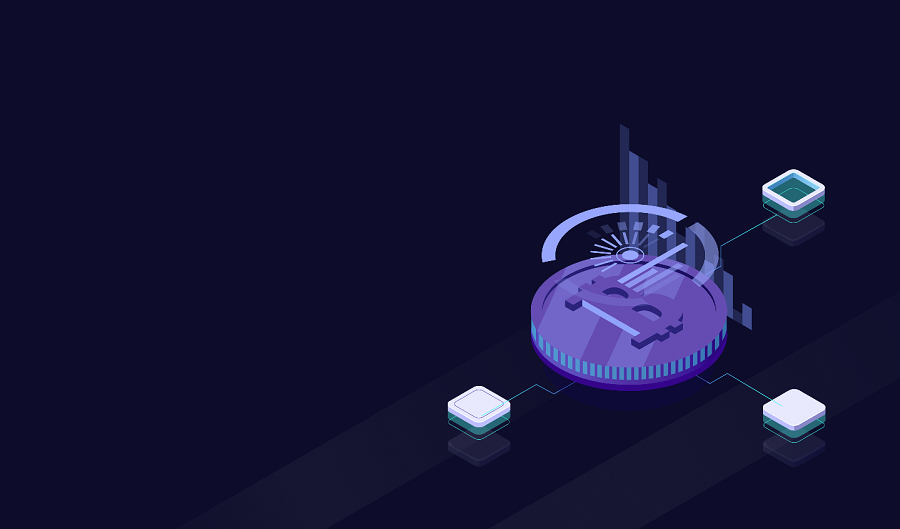
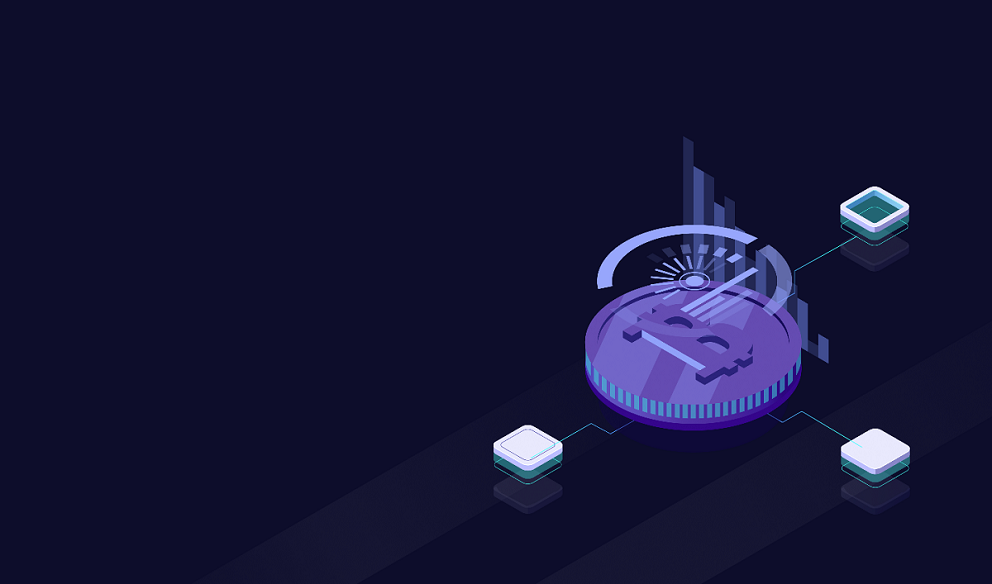
working with grid

diff --git a/scss/_responsive.scss b/scss/_responsive.scss
@@ -48,98 +48,115 @@
 
 
 
-// @media (min-width: 900px) {
+@media (max-width: 992px) {
     
-//     body {
-//         width: 900px;
-//         header {
-//             background-image: url(../img/bgc-header3.png);
-//             width: 900px;
-
-//             display: grid;
-//             .nav {
-//                 grid-template-columns: repeat(4, 1fr);
-                
-//                 // .products {
-//                     //     grid-column: 7 / 8;
-                    
-//                 // }
-                
-//                 // .features {
-//                     //     grid-column: 8 / 9;
-//                 // }
-                
-//                 // .about {            
-//                     //     grid-column: 9 / 10;
-//                 // }
-                
-//                 // .contact {
-//                 //     grid-column: 10 / 11;
-//                 // }
-                
-//                 // .login {
-//                     //     grid-column: 11 / 12;
-//                     // }
-                    
-//                     // .register {
-//                         //     grid-column: 12 / 13;
-//                 //     // grid-row: 1 / 2;
-//                 // }
-//             }
-            
-//         }
-
-//     }
-            
-// }
-
-// @media (min-width: 1200px) {
-//     .nav-container {
-//         display: grid;
-//         grid-template-columns: 1fr 1fr 1fr 1fr 1fr 1fr 1fr 1fr;
-//         grid-template-rows: 1fr;
-        
-//         .crappo {
-//             grid-column: 1 / 2;
-//         }
-
-//         .products {
-    //             grid-column: 3 / 4;
-    //         }
-    
-    //         .features {
-        //             grid-column: 4 / 5;
-        //         }
-
-//         .about {            
-//             grid-column: 5 / 6;
-//         }
-
-//         .contact {
-    //             grid-column: 6 / 7;
-    //         }
-    
-    //         .login {
-        //             grid-column: 7 / 8;
-//         }
-
-//         .register {
-    //             grid-column: 8 / 9;
-    //             grid-row: 1 / 2;
-    //         }
-    //     }
-    // }
-    
-    @media (max-width: 1200px) {
-
+    body {
+        width: 992px;
         header {
             display: grid;
-            grid-template-columns: repeat(20%, 1fr);
-            background-image: url(../img/bgc-header2.png);
+            background-image: url(../img/bgc-header3.png);
+            // width: 992px;
+            background-size: contain;
+            .nav {
+                grid-template-columns: repeat(1, 1fr);
+
+                // .crappo {
+                //     display: none;
+                // }
+                
+                .products {
+                    grid-column: 2 / 3;
+                }
+                
+                .features {
+                    grid-column: 3 / 4;
+                }
+                
+                .about {            
+                    grid-column: 3 / 4;
+                }
+                
+                .contact {
+                    grid-column: 3 / 4;
+                }
+                
+                .login {
+                    grid-column: 4 / 5;
+                }
+                    
+                .register {
+                    grid-column: 5 / 6;
+                }
+            }
+            
+        }
+
+    }
+            
+}
+
+    
+    @media (max-width: 1150px) {
+
+        body {
+            width: 1150px;
+
+            header {
+                // grid-template-columns: repeat(20%, 1fr);
+                background-image: url(../img/bgc-header2.png);
+                
+                .nav {
+                    // grid-template-columns: repeat(auto-fill, minmax(80px, 1fr));
+    
+                    .products {
+                        grid-column: 5 / 6;
+                    }
+                    
+                    .features {
+                        grid-column: 6 / 7;
+                    }
+                
+                    .about {            
+                        grid-column: 7 / 8;
+                    }
+                    
+                    .contact {
+                        grid-column: 8 / 9;
+                    }
+                    
+                    .login {
+                        grid-column: 9 / 10;
+                        
+                        p {
+                            padding-right: 20px;
+                        }
+                    }
+        
+                    .register {
+                        grid-column: 10 / 11;
+                        padding-left: 50px;
+                    }
+                }
+    
+                .header__content {
+                    .header__content--secondary {
+                        font-size: 44px;
+                    }
+                }
+                
+            }
+        }
+    }
+
+    @media (max-width: 1350px) {
+
+        header {
+            // grid-template-columns: repeat(20%, 1fr);
+            background-image: url(../img/bgc-header4.png);
             
             .nav {
                 grid-template-columns: repeat(auto-fill, minmax(80px, 1fr));
-                
+
                 .products {
                     grid-column: 7 / 8;
                 
@@ -179,3 +196,53 @@
             
         }
     }
+
+    // @media (max-width: 1440px) {
+
+    //     header {
+    //         display: grid;
+    //         grid-template-columns: repeat(20%, 1fr);
+    //         background-image: url(../img/bgc-header.png);
+            
+    //         .nav {
+    //             grid-template-columns: repeat(auto-fill, minmax(80px, 1fr));
+
+    //             .products {
+    //                 grid-column: 7 / 8;
+                
+    //             }
+                
+    //             .features {
+    //                 grid-column: 8 / 9;
+    //             }
+            
+    //             .about {            
+    //                 grid-column: 9 / 10;
+    //             }
+                
+    //             .contact {
+    //                 grid-column: 10 / 11;
+    //             }
+                
+    //             .login {
+    //                 grid-column: 11 / 12;
+                    
+    //                 p {
+    //                     padding-right: 20px;
+    //                 }
+    //             }
+    
+    //             .register {
+    //                 grid-column: 12 / 13;
+    //                 padding-left: 50px;
+    //             }
+    //         }
+
+    //         // .header__content {
+    //         //     .header__content--secondary {
+    //         //         font-size: 44px;
+    //         //     }
+    //         // }
+            
+    //     }
+    // }

diff --git a/css/index.css b/css/index.css
@@ -35,7 +35,7 @@ header {
   display: grid;
   grid-template-columns: repeat(auto-fill, minmax(50%, 1fr));
   background-image: url(../img/bgc-header.png);
-  background-size: auto;
+  background-size: cover;
   margin-left: auto;
   margin-right: auto;
   color: #fff;
@@ -50,11 +50,6 @@ header .nav {
   margin-right: 5%;
 }
 header .nav .crappo {
-  -webkit-box-pack: start;
-      -ms-flex-pack: start;
-          justify-content: flex-start;
-  -ms-flex-line-pack: start;
-      align-content: start;
   grid-column: 1/2;
   text-transform: uppercase;
   font-weight: 600;
@@ -269,11 +264,73 @@ header .header__content .header__content--button .btn__container .btn__container
           align-items: center;
 }
 
-@media (max-width: 1200px) {
-  header {
+@media (max-width: 992px) {
+  body {
+    width: 992px;
+  }
+  body header {
     display: grid;
-    grid-template-columns: repeat(20%, 1fr);
+    background-image: url(../img/bgc-header3.png);
+    background-size: contain;
+  }
+  body header .nav {
+    grid-template-columns: repeat(1, 1fr);
+  }
+  body header .nav .products {
+    grid-column: 2/3;
+  }
+  body header .nav .features {
+    grid-column: 3/4;
+  }
+  body header .nav .about {
+    grid-column: 3/4;
+  }
+  body header .nav .contact {
+    grid-column: 3/4;
+  }
+  body header .nav .login {
+    grid-column: 4/5;
+  }
+  body header .nav .register {
+    grid-column: 5/6;
+  }
+}
+@media (max-width: 1150px) {
+  body {
+    width: 1150px;
+  }
+  body header {
     background-image: url(../img/bgc-header2.png);
+  }
+  body header .nav .products {
+    grid-column: 5/6;
+  }
+  body header .nav .features {
+    grid-column: 6/7;
+  }
+  body header .nav .about {
+    grid-column: 7/8;
+  }
+  body header .nav .contact {
+    grid-column: 8/9;
+  }
+  body header .nav .login {
+    grid-column: 9/10;
+  }
+  body header .nav .login p {
+    padding-right: 20px;
+  }
+  body header .nav .register {
+    grid-column: 10/11;
+    padding-left: 50px;
+  }
+  body header .header__content .header__content--secondary {
+    font-size: 44px;
+  }
+}
+@media (max-width: 1350px) {
+  header {
+    background-image: url(../img/bgc-header4.png);
   }
   header .nav {
     grid-template-columns: repeat(auto-fill, minmax(80px, 1fr));

diff --git a/scss/_header.scss b/scss/_header.scss
@@ -3,7 +3,7 @@ header {
     grid-template-columns: repeat(auto-fill, minmax(50%, 1fr));
     // min-height: 100%;
     background-image: url(../img/bgc-header.png);
-    background-size: auto;
+    background-size: cover;
     margin-left: auto;
     margin-right: auto;
     color: #fff;
@@ -18,8 +18,8 @@ header {
         margin-right: 5%;
 
         .crappo {
-            justify-content: flex-start;
-            align-content: start;
+            // justify-content: flex-start;
+            // align-content: start;
 
             grid-column: 1 / 2;
             text-transform: uppercase;
